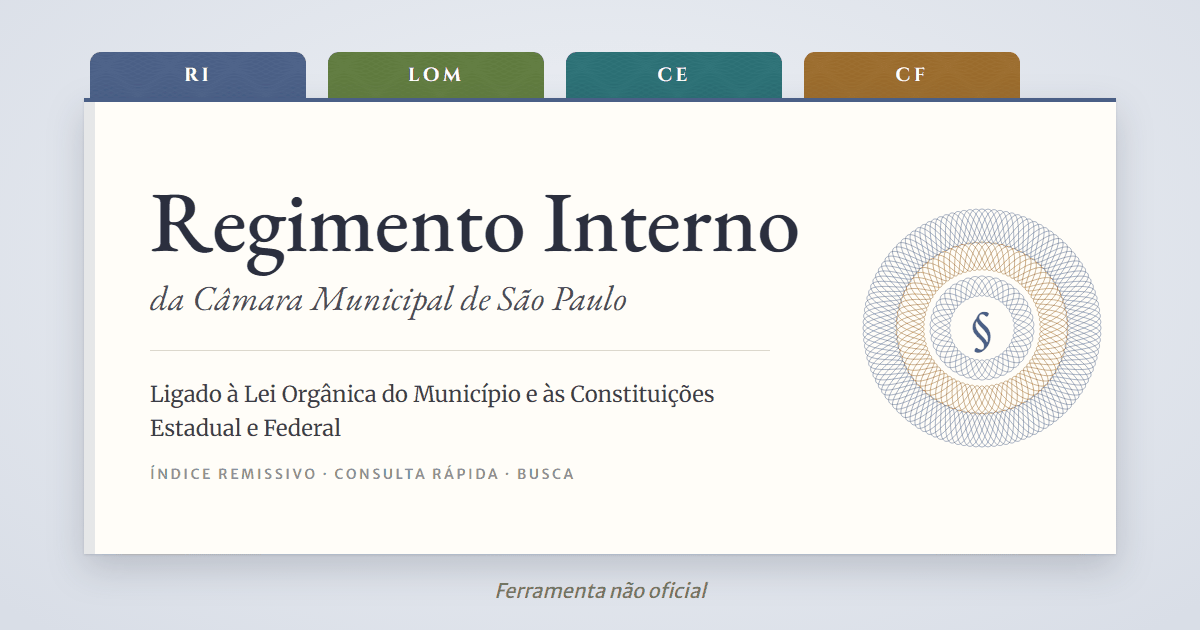
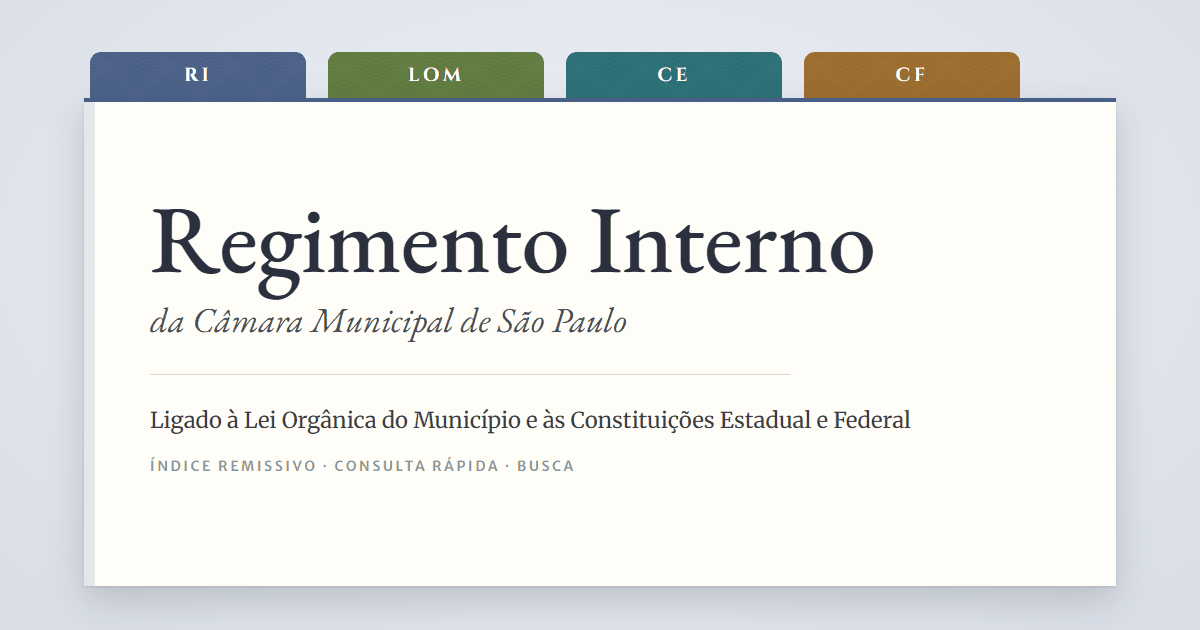
página: prévia do link sem a roseta e sem "Ferramenta não oficial"

Changed region(s): [[0.1233, 0.3016, 0.925, 0.7238], [0.0617, 0.8746, 0.9558, 0.9651], [0.1233, 0.7238, 0.4933, 0.7841]]

diff --git a/static/img/_compartilhar.html b/static/img/_compartilhar.html
@@ -2,8 +2,7 @@
 <html lang="pt-BR"><head><meta charset="UTF-8">
 <!-- The link's preview (1200×630), in the page's own dress: the cover of a
      norma as a divider in a binder (paper, tabs in each norma's color with
-     the ribbons' guilloché, EB Garamond, small capitals), a guilloché
-     rosette on the sheet. _gerar.py puts --guilhoche from style.css on <html>. -->
+     the ribbons' guilloché, EB Garamond, small capitals). _gerar.py puts --guilhoche from style.css on <html>. -->
 <style>
 @font-face { font-family: "EB Garamond"; font-weight: 400 800; src: url(../fonts/eb-garamond-latin.woff2) format("woff2"); }
 @font-face { font-family: "EB Garamond"; font-style: italic; font-weight: 400 800; src: url(../fonts/eb-garamond-italic-latin.woff2) format("woff2"); }
@@ -13,7 +12,7 @@
 * { margin: 0; padding: 0; box-sizing: border-box; }
 body { width: 1200px; height: 630px; overflow: hidden; position: relative;
   background: radial-gradient(ellipse 70% 80% at 50% 40%, #eef1f5, #d9dee7); }
-.folha { position: absolute; left: 84px; right: 84px; top: 98px; bottom: 76px;
+.folha { position: absolute; left: 84px; right: 84px; top: 98px; bottom: 44px;
   background:
     linear-gradient(#4a5f86 0 0) 0 0 / 100% 4px no-repeat,
     linear-gradient(color-mix(in srgb, #4a5f86 14%, #fffdf8) 0 0) 0 0 / 11px 100% no-repeat,
@@ -23,20 +22,16 @@ body { width: 1200px; height: 630px; overflow: hidden; position: relative;
 .abas span { width: 216px; height: 46px; border-radius: 11px 11px 0 0; text-align: center;
   background: var(--guilhoche), var(--c); background-blend-mode: soft-light, normal;
   font: 700 19px/46px "Cinzel", serif; letter-spacing: .18em; color: #fff; }
-.texto { position: absolute; left: 150px; top: 178px; width: 620px; }
-h1 { font: 500 86px/1 "EB Garamond", serif; letter-spacing: -.005em; color: #2b2f3e; white-space: nowrap; }
+.texto { position: absolute; left: 150px; top: 190px; width: 900px; }
+h1 { font: 500 96px/1 "EB Garamond", serif; letter-spacing: -.005em; color: #2b2f3e; white-space: nowrap; }
 .de { margin-top: 12px; font: italic 400 35px/1.25 "EB Garamond", serif; color: #4c4f57; }
-.fio { margin: 30px 0 26px; height: 1px; background: #ddd6c6; }
+.fio { width: 640px; margin: 32px 0 28px; height: 1px; background: #ddd6c6; }
 .sub { font: 400 22px/1.55 "Merriweather", serif; color: #3a3d45; }
 .nota { margin-top: 20px; font: 600 14px/1.4 "Merriweather Sans", sans-serif; letter-spacing: .18em; text-transform: uppercase; color: rgba(35,37,44,.55); }
-.roseta { position: absolute; left: 852px; top: 198px; width: 260px; height: 260px; }
-.aviso { position: absolute; left: 0; right: 0; bottom: 26px; text-align: center;
-  font: italic 400 20px/1.3 "Merriweather Sans", sans-serif; color: #7a7468; }
 </style></head>
 <body>
 <div class="abas"><span style="--c:#4a5f86">RI</span><span style="--c:#5f7a3e">LOM</span><span style="--c:#2b6f74">CE</span><span style="--c:#9a6b2c">CF</span></div>
 <div class="folha"></div>
-<svg class="roseta" viewBox="-130 -130 260 260" fill="none"><text y="17" text-anchor="middle" fill="#4a5f86" style="font: 500 52px 'EB Garamond', serif">§</text></svg>
 <div class="texto">
   <h1>Regimento Interno</h1>
   <p class="de">da Câmara Municipal de São Paulo</p>
@@ -44,28 +39,4 @@ h1 { font: 500 86px/1 "EB Garamond", serif; letter-spacing: -.005em; color: #2b2
   <p class="sub">Ligado à Lei Orgânica do Município e às Constituições Estadual e Federal</p>
   <p class="nota">Índice remissivo · Consulta rápida · Busca</p>
 </div>
-<p class="aviso">Ferramenta não oficial</p>
-<script>
-// A guilloché rosette, as on a certificate: rings of closed curves
-// r(θ) = r0 + a·sin(kθ + φ), each ring a rope of n curves turned a little
-// further, in each norma's ink
-const NS = "http://www.w3.org/2000/svg", svg = document.querySelector(".roseta");
-function anel(r0, a, k, n, cor, w) {
-  for (let j = 0; j < n; j++) {
-    const fi = j * 2 * Math.PI / n, pts = [];
-    for (let i = 0; i <= 720; i++) {
-      const t = i * 2 * Math.PI / 720, r = r0 + a * Math.sin(k * t + fi);
-      pts.push((r * Math.cos(t)).toFixed(2) + "," + (r * Math.sin(t)).toFixed(2));
-    }
-    const p = document.createElementNS(NS, "polyline");
-    p.setAttribute("points", pts.join(" "));
-    p.setAttribute("stroke", cor); p.setAttribute("stroke-width", w);
-    svg.appendChild(p);
-  }
-}
-const tinta = "rgba(74,95,134,.6)";
-anel(102, 17, 15, 8, tinta, .8);
-anel(72, 14, 11, 7, "rgba(154,107,44,.65)", .8);
-anel(42, 10, 7, 6, tinta, .8);
-</script>
 </body></html>
